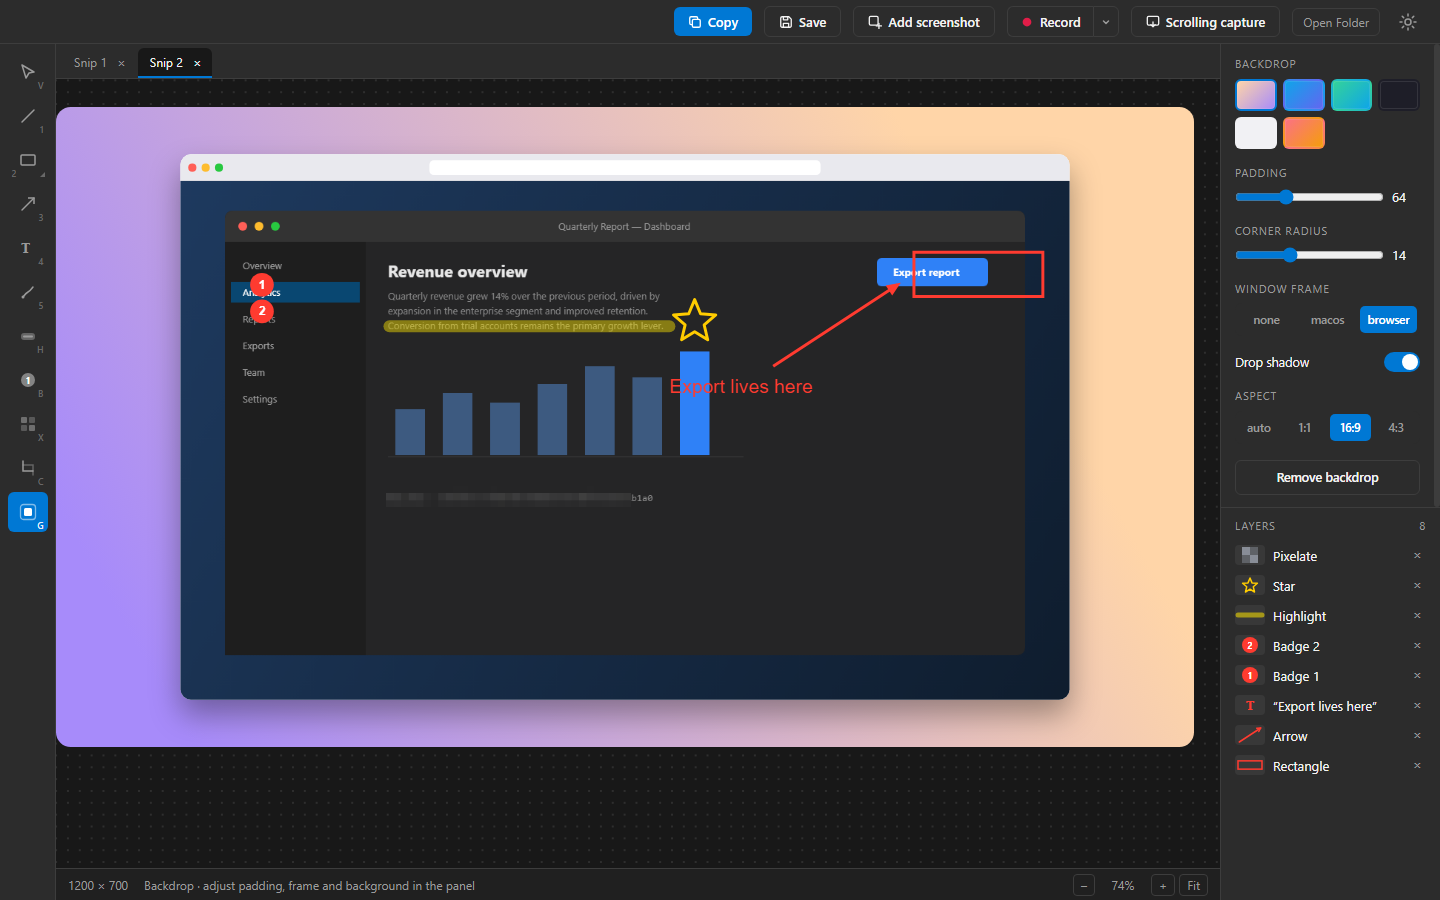
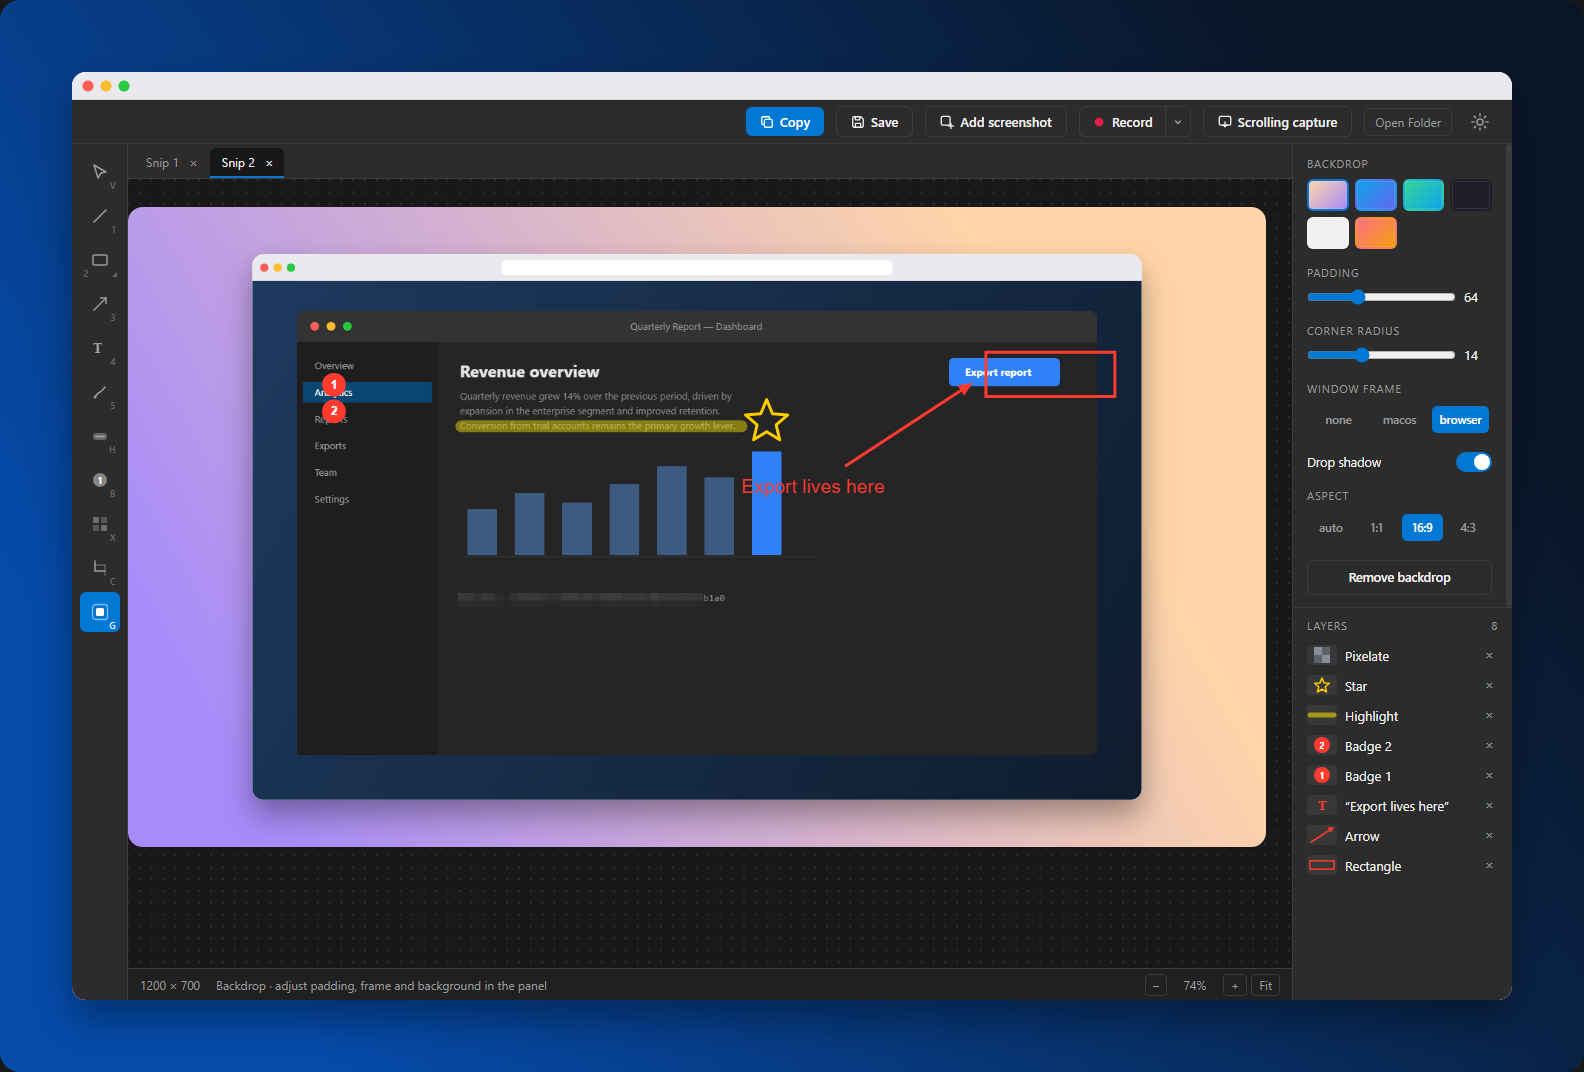
docs: beautify README screenshots via snippr
Dogfood the render CLI: full-app captures get a macOS window frame, the
layers-panel crop gets a frameless padded gradient. Beautify step noted
in the README-screenshots guide.

diff --git a/CLAUDE.md b/CLAUDE.md
@@ -45,6 +45,15 @@ npm run tauri build                                    # NSIS installer
 
 `docs/empty-state.png` = same without `?demo=1`; `docs/layers-panel.png` = 220-wide crop of the right panel. Regenerate when the UI visibly changes.
 
+The committed docs screenshots are then **beautified by snippr itself** (dogfood). After regenerating the raw PNGs above, re-run the beautify pass — a backdrop-only scene (`{"annotations":[],"backdrop":{…}}`) through the production CLI, writing back over the same file:
+
+```powershell
+$exe = "src-tauri\target\release\snippr.exe"   # must be a `tauri build`, not cargo --release
+& $exe generate --input docs\editor.png --scene macos.json --output docs\editor.png
+```
+
+Frame per shot: `macos` for the full-app captures (editor/empty-state/beautify), `none` (padding + gradient only, smaller padding) for the `layers-panel` crop.
+
 ## Conventions
 
 - Commits: Conventional Commits, imperative subject ≤50 chars, body only for non-obvious why. No AI attribution lines.
